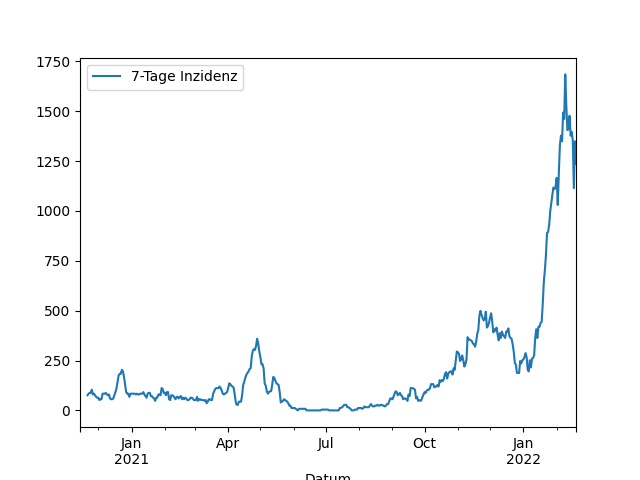
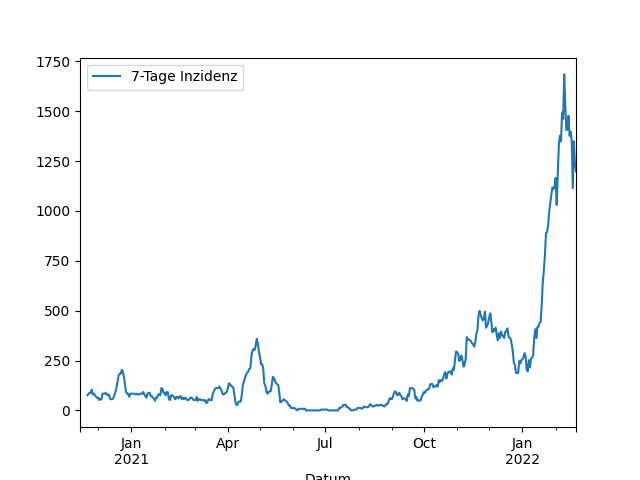
Update images

diff --git a/_includes/aktuelle_inzidenz.md b/_includes/aktuelle_inzidenz.md
@@ -1,1 +1,1 @@
-1237,4
+1197,5
